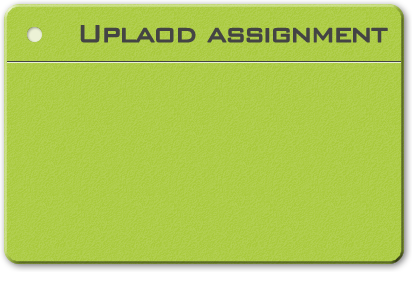
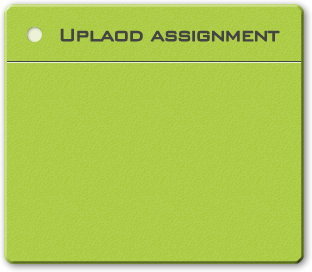
student compare button fixed size and background

Changed region(s): [[0.0, 0.0294, 1.0, 1.0], [0.0577, 0.0882, 0.1442, 0.1765]]

diff --git a/DatabaseOperation/web/css/assignmentDisplayStudent.less b/DatabaseOperation/web/css/assignmentDisplayStudent.less
@@ -98,13 +98,7 @@ html{
 .ui-dialog.ui-widget-content.detail{
 background-color: transparent;
 }
-.preview{
-background-color: transparent;
-float:left;
-width:400px;
-height:500px;
 
-}
 
 
 
@@ -147,7 +141,16 @@ height:500px;
         
         }
         
-        
+        .filename{
+position:relative;
+float:left;
+height:20px;
+width:200px;
+left:28px;
+top:70px;
+
+
+}
      
         
         

diff --git a/DatabaseOperation/web/css/assignmentDisplay.less b/DatabaseOperation/web/css/assignmentDisplay.less
@@ -168,7 +168,7 @@ position:relative;
 float:left;
 height:20px;
 width:200px;
-left:20px;
+left:28px;
 top:70px;
 
 
